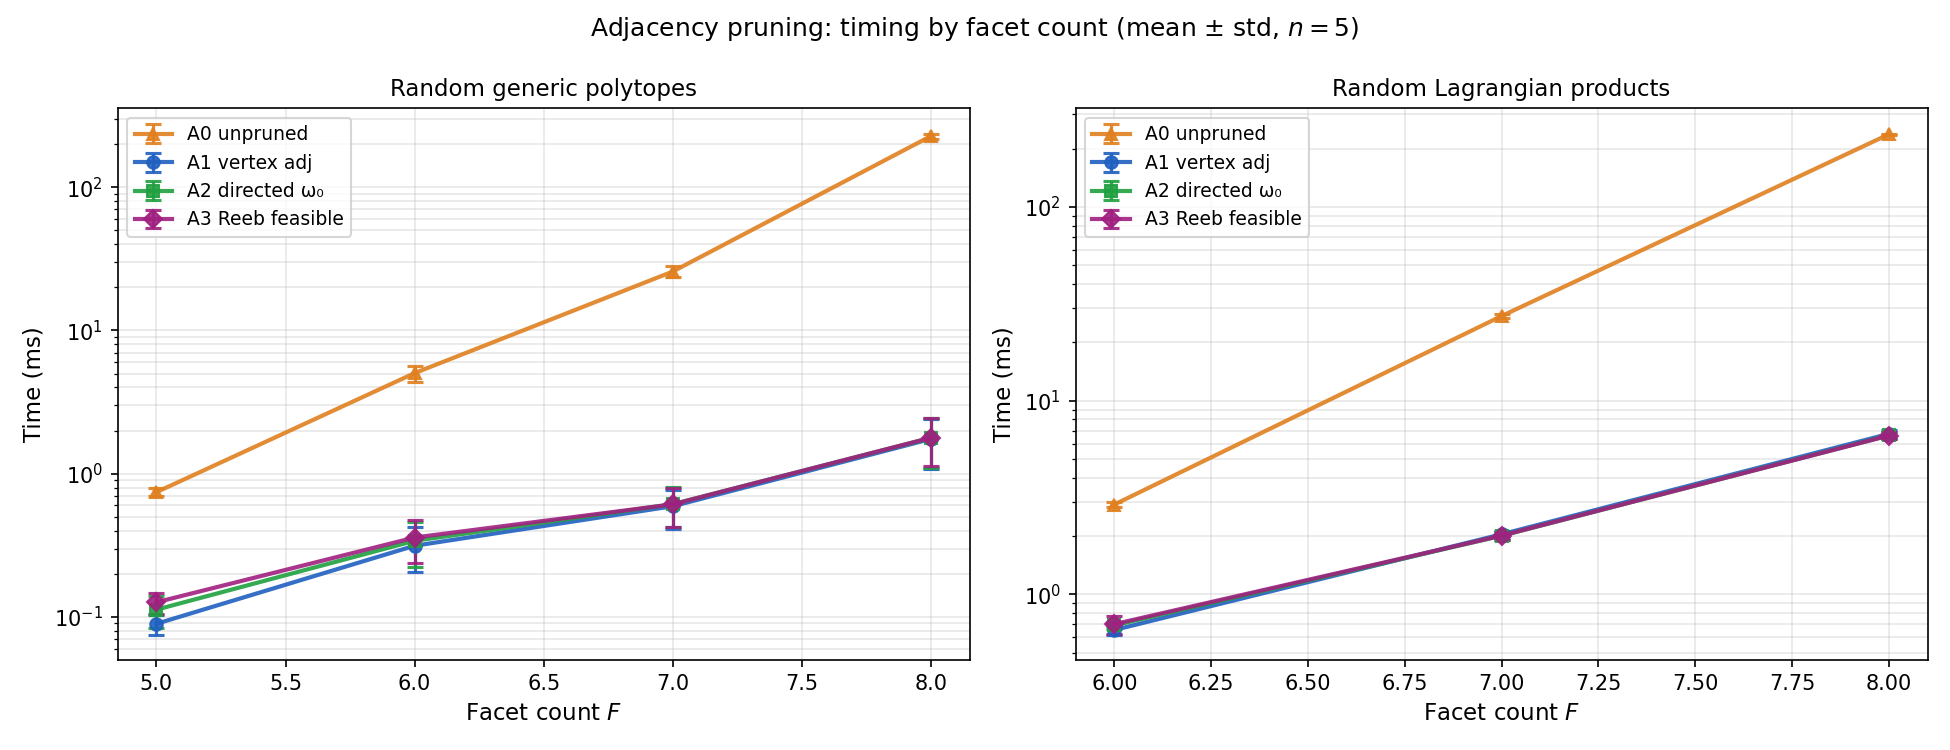
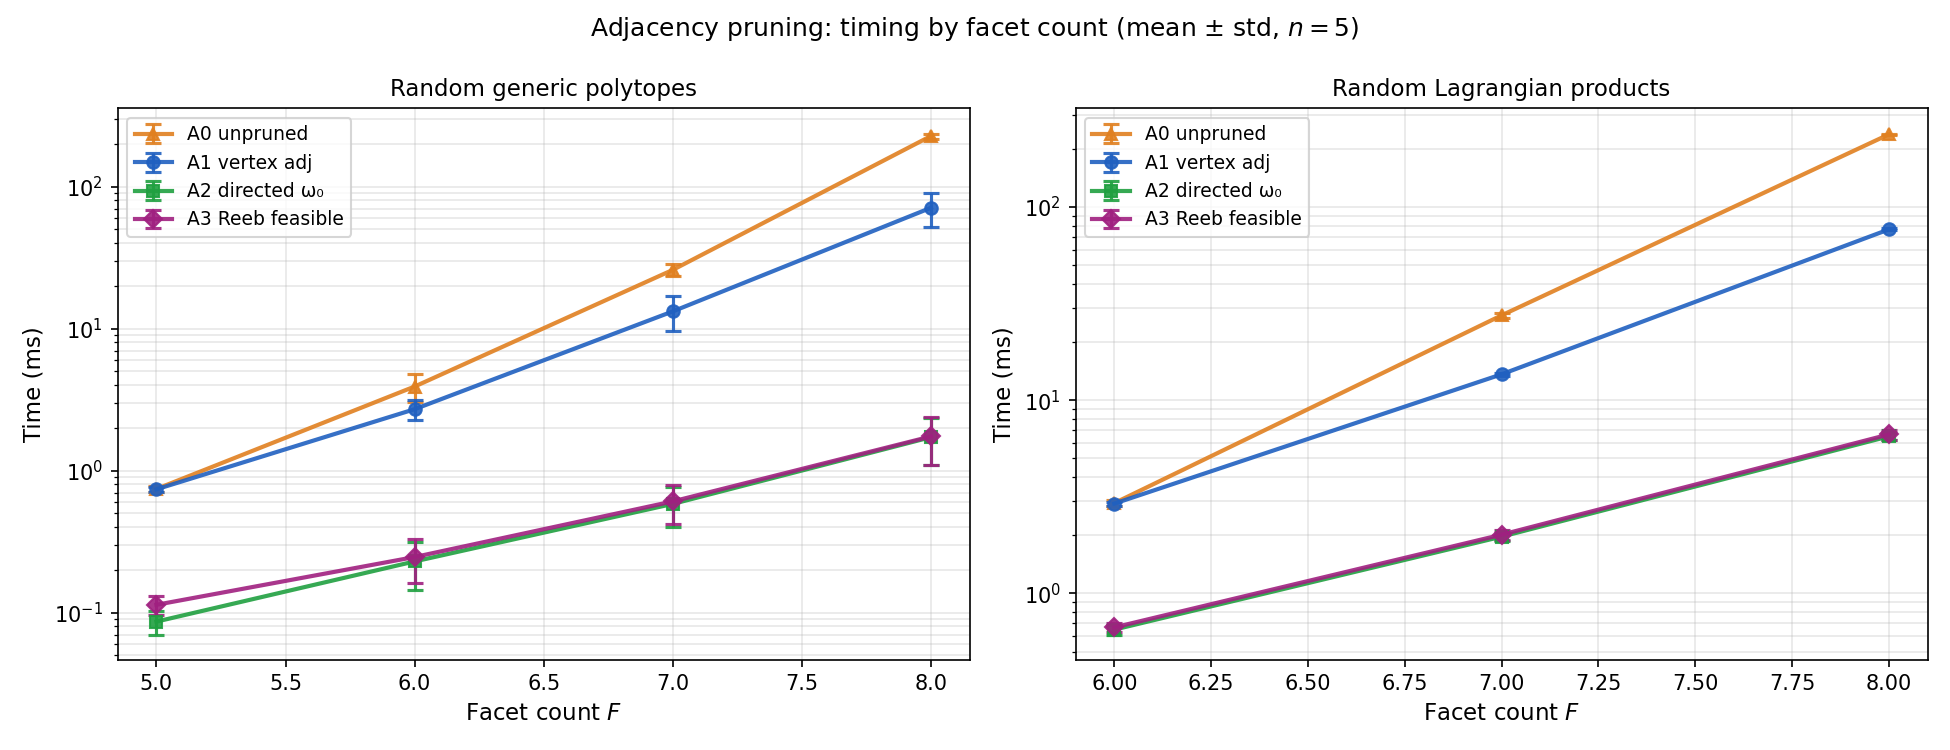
Fix A1 mislabeling: add true vertex-adj variant, replace timing table with iteration counts
After A2 promotion to the library, the ablation's A1 variant was calling
A2-level code. Added a local ehz_capacity_a1 that uses undirected vertex
adjacency with the same solver as A2/A3 for apples-to-apples comparison.

Replaced the stale timing table with an iteration count table for 3
representative F=8 polytopes. Iteration counts are deterministic and
machine-independent, showing the combinatorial pruning cascade:
- A0: 16,064 candidates (no pruning)
- A1: 5,556–6,543 (vertex adjacency, 59–65% pruned)
- A2: 146–1,970 (directed ω₀, 87–99% of A1 pruned)
- A3: = A2 on all test polytopes (all simple, Corollary A.10)

Rewrote narrative to focus on combinatorial pruning effectiveness
rather than timing measurements.

diff --git a/experiments/ablation/ablation.tex b/experiments/ablation/ablation.tex
@@ -211,51 +211,53 @@ when the LU factorization detects rank deficiency;
 the hypercube (expected $4.0$) is solved by the LU fast path without SVD.
 All three capacities match their expected values to within $10^{-6}$.
 
-\paragraph{Speedup.}
-Table~\ref{tab:ablation-speedup} shows mean computation times.
-The main speedup comes from the directed $\omega_0$ condition~(A2), which prunes
-${\sim}99\%$ of candidate orderings at $F = 8$:
-${\sim}130\times$ over A0 for generic polytopes, and
-${\sim}36\times$ for Lagrangian products (whose structured normals have more
-$\omega_0 = 0$ pairs, limiting directed pruning effectiveness).
-A3 provides no additional pruning beyond A2 on this dataset.
-All 38 test polytopes are simple (every vertex on exactly four facets),
+\paragraph{Pruning effectiveness.}
+Table~\ref{tab:ablation-iterations} shows the number of candidate orderings
+$(S, \sigma)$ admitted by each adjacency filter for three $F = 8$ polytopes.
+Without pruning (A0), every polytope with $F$ facets admits
+$\sum_{m=2}^{F} \binom{F}{m} \tfrac{(m-1)!}{2}$ candidates;
+for $F = 8$ this is $16\,064$.
+Vertex adjacency~(A1) prunes $59$--$65\%$ of candidates.
+The directed $\omega_0$ condition~(A2) provides the dominant reduction,
+admitting less than $1\%$ of A0 candidates for generic polytopes
+(146 out of $16\,064$) and ${\sim}3\%$ for Lagrangian products.
+The hypercube, whose high symmetry produces many $\omega_0 = 0$ pairs,
+is the least prunable at $12\%$.
+
+A3 admits exactly the same candidates as A2 on all 38 test polytopes.
+All test polytopes are simple (every vertex on exactly four facets),
 so every adjacent pair shares a ridge; by Corollary~\ref{cor:ridge-sufficiency},
 the $\omega_0$ condition alone guarantees feasibility at ridges,
-making the LP check redundant.
-Standard deviations are shown in Figure~\ref{fig:ablation-timing}.
+making the LP check~(A3) redundant.
+Figure~\ref{fig:ablation-timing} shows the corresponding computation times.
 
 \begin{table}[h]
 \centering
-\begin{tabular}{llrrrr}
+\begin{tabular}{lrrrr}
 \toprule
-Group & $F$ & A0 (ms) & A1 (ms) & A2 (ms) & A3 (ms) \\
+Polytope & A0 & A1 & A2 & A3 \\
 \midrule
-Generic    & 5 &   0.5 &   0.5 &  0.1 &  0.1 \\
-           & 6 &   3.2 &   2.5 &  0.2 &  0.2 \\
-           & 7 &  26.9 &  13.7 &  0.6 &  0.6 \\
-           & 8 & 234.5 &  74.0 &  1.8 &  1.7 \\
-\midrule
-Lagrangian & 6 &   3.0 &   2.9 &  0.7 &  0.7 \\
-           & 7 &  27.3 &  14.6 &  2.1 &  2.1 \\
-           & 8 & 239.4 &  79.4 &  6.8 &  6.6 \\
+Random generic ($F = 8$)     & 16\,064 & 6\,543 & 146   & 146   \\
+Lagrangian $4 \times 4$ ($F = 8$) & 16\,064 & 5\,556 & 497   & 497   \\
+Hypercube ($F = 8$)          & 16\,064 & 5\,556 & 1\,970 & 1\,970 \\
 \bottomrule
 \end{tabular}
-\caption{Mean computation time (ms) by adjacency variant,
-  $n = 5$ samples per group per facet count.
-  The directed $\omega_0$ condition (A2) provides the dominant speedup:
-  ${\sim}130\times$ over A0 at $F = 8$ (generic).
-  A3 adds no further pruning on this dataset.}
-\label{tab:ablation-speedup}
+\caption{Number of candidate orderings $(S, \sigma)$ admitted by each
+  adjacency filter, for three polytopes with $F = 8$ facets.
+  Vertex adjacency~(A1) provides moderate pruning;
+  the directed $\omega_0$ condition~(A2) eliminates $87$--$99\%$
+  of remaining candidates.
+  A2 and A3 agree on all test polytopes (all simple).}
+\label{tab:ablation-iterations}
 \end{table}
 
 \begin{figure}[h]
 \centering
 \includegraphics[width=0.95\textwidth]{../experiments/ablation/ablation_timing.png}
-\caption{Adjacency pruning: timing by facet count,
+\caption{Adjacency pruning: computation time by facet count,
   mean $\pm$ std ($n=5$).
   Left: random generic polytopes. Right: random Lagrangian products.
-  A2~and~A3 (green squares and purple diamonds) overlap almost exactly,
+  A2~and~A3 overlap almost exactly,
   confirming that the $\omega_0$ condition captures all prunable transitions
   on this dataset.}
 \label{fig:ablation-timing}

diff --git a/experiments/ablation/ablation.rs b/experiments/ablation/ablation.rs
@@ -32,7 +32,7 @@ use std::time::Instant;
 use symplectic::geom::polygon::{random_polygon_2d, regular_polygon_2d};
 use symplectic::random::generate_random_polytopes;
 use symplectic::{
-    ehz_capacity, ehz_capacity_pruned, known_polytopes, lagrangian_product, EhzResult, Polytope4D,
+    ehz_capacity, known_polytopes, lagrangian_product, EhzResult, Polytope4D,
 };
 
 const SEED: u64 = 42;
@@ -532,6 +532,15 @@ fn ehz_capacity_with(
     })
 }
 
+/// A1: undirected vertex adjacency + standard LU/SVD solver.
+/// This is the ablation's own A1 — independent of the library's `ehz_capacity_pruned`,
+/// which was promoted to A2-level pruning. Uses `solve_kkt_full` for apples-to-apples
+/// comparison with A2 and A3.
+fn ehz_capacity_a1(polytope: &Polytope4D) -> Option<EhzResult> {
+    let vertex_adj = build_adjacency_matrix(polytope);
+    ehz_capacity_with(polytope, &vertex_adj, solve_kkt_full)
+}
+
 /// A2: directed ω₀ adjacency + standard LU/SVD solver.
 fn ehz_capacity_a2(polytope: &Polytope4D) -> Option<EhzResult> {
     let vertex_adj = build_adjacency_matrix(polytope);
@@ -747,7 +756,7 @@ const VARIANTS: &[Variant] = &[
     },
     Variant {
         name: "a1_vertex_adj",
-        run: ehz_capacity_pruned,
+        run: ehz_capacity_a1,
     },
     Variant {
         name: "a2_omega_directed",
